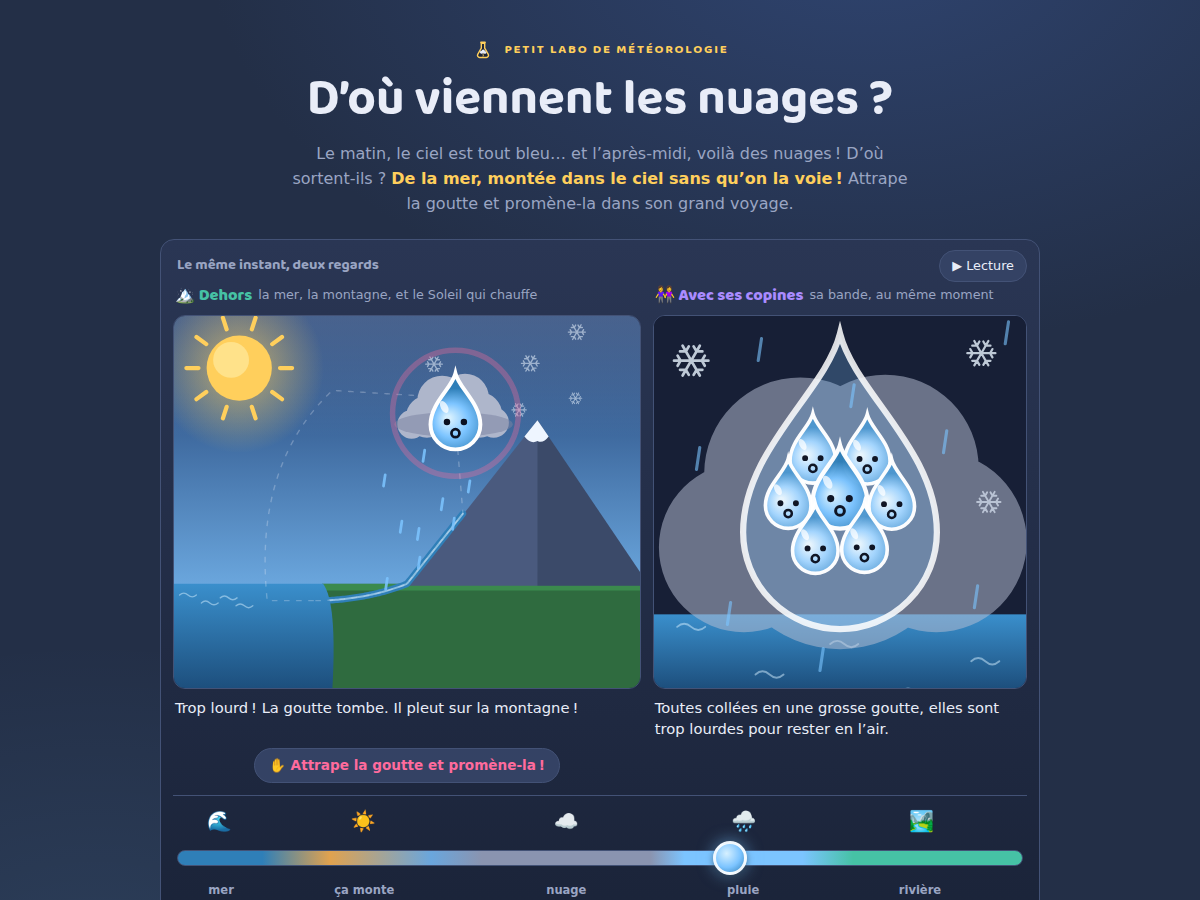
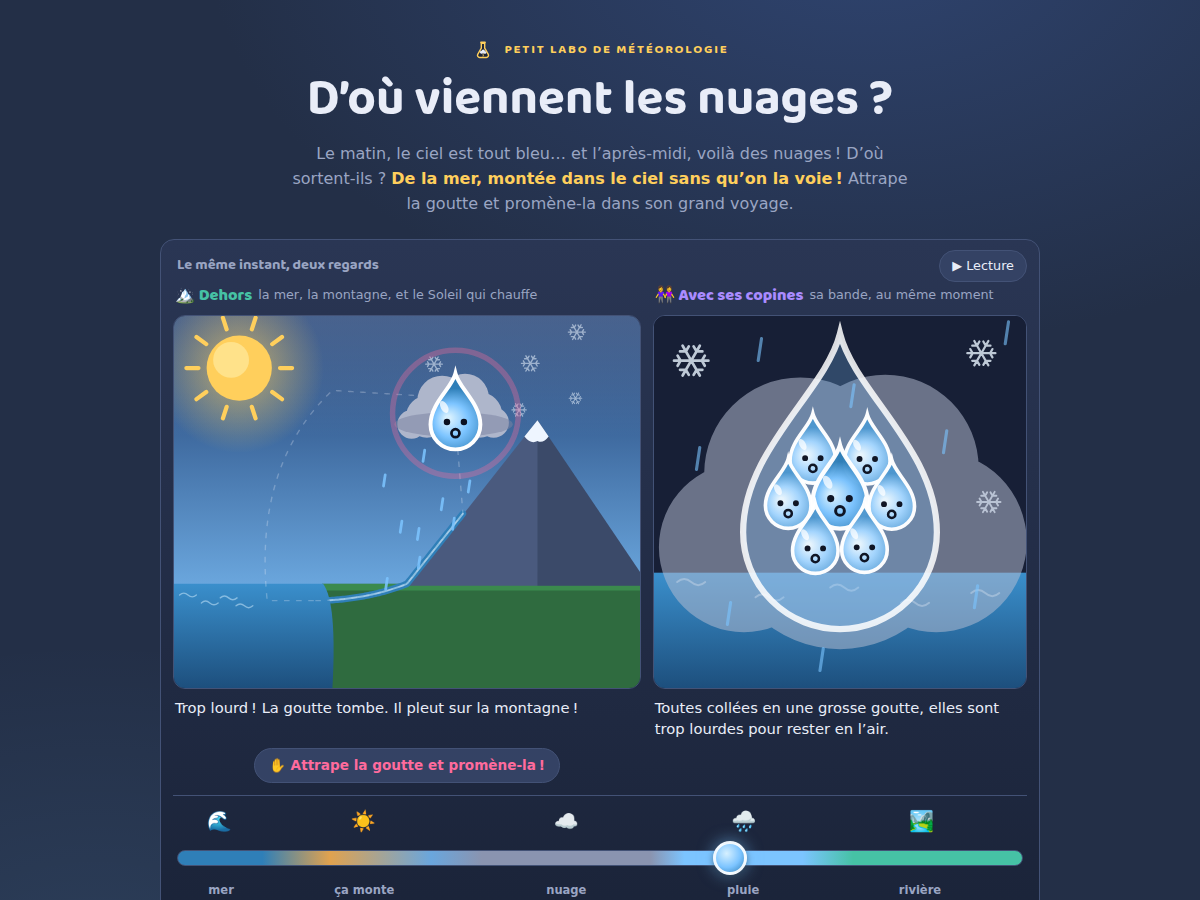
fix(copines): la bande est dans l'eau, sous la surface
La ligne d'eau passait au milieu de la bande : sur téléphone, les copines
semblaient posées sur l'eau. Elle passe désormais au-dessus des pointes,
comme la goutte sous la surface de la mer sur la scène.

Claude-Session: https://claude.ai/code/session_01QV7Z3zkPSUa7qwwNpFTVad

Changed region(s): [[0.5242, 0.6222, 0.8633, 0.7156]]

diff --git a/js/vue-copines.js b/js/vue-copines.js
@@ -80,9 +80,10 @@ function dessinerRepere(ctx, W, H, cx, cy, R, p, horloge) {
   else if (e === 'nuage') niveau = 0;
   else if (e === 'pluie') niveau = avancementEtape(p);
   if (niveau > 0.01) {
-    /* la ligne d'eau passe au milieu de la bande : elles flottent DEDANS,
-     * la tête dehors */
-    var yEau = (cy - R * 0.12) + (1 - niveau) * (H + R * 0.2 - (cy - R * 0.12));
+    /* la ligne d'eau passe AU-DESSUS des pointes : la bande est dans
+     * l'eau, comme la goutte sous la surface de la mer sur la scène */
+    var haut = cy - R * 0.72;
+    var yEau = haut + (1 - niveau) * (H + R * 0.2 - haut);
     var mer = ctx.createLinearGradient(0, yEau, 0, H);
     mer.addColorStop(0, '#3a8fcc');
     mer.addColorStop(1, '#1d4f7d');
@@ -94,7 +95,7 @@ function dessinerRepere(ctx, W, H, cx, cy, R, p, horloge) {
     ctx.lineCap = 'round';
     for (var k = 0; k < 5; k++) {
       var vx = W * (0.1 + 0.2 * k) + R * 0.03 * Math.sin(t + k);
-      var vy = yEau + R * (0.08 + 0.5 * ((k * 0.61) % 1));
+      var vy = yEau + R * (0.06 + 0.16 * ((k * 0.61) % 1));
       var l = R * 0.09;
       ctx.beginPath();
       ctx.moveTo(vx - l, vy);
